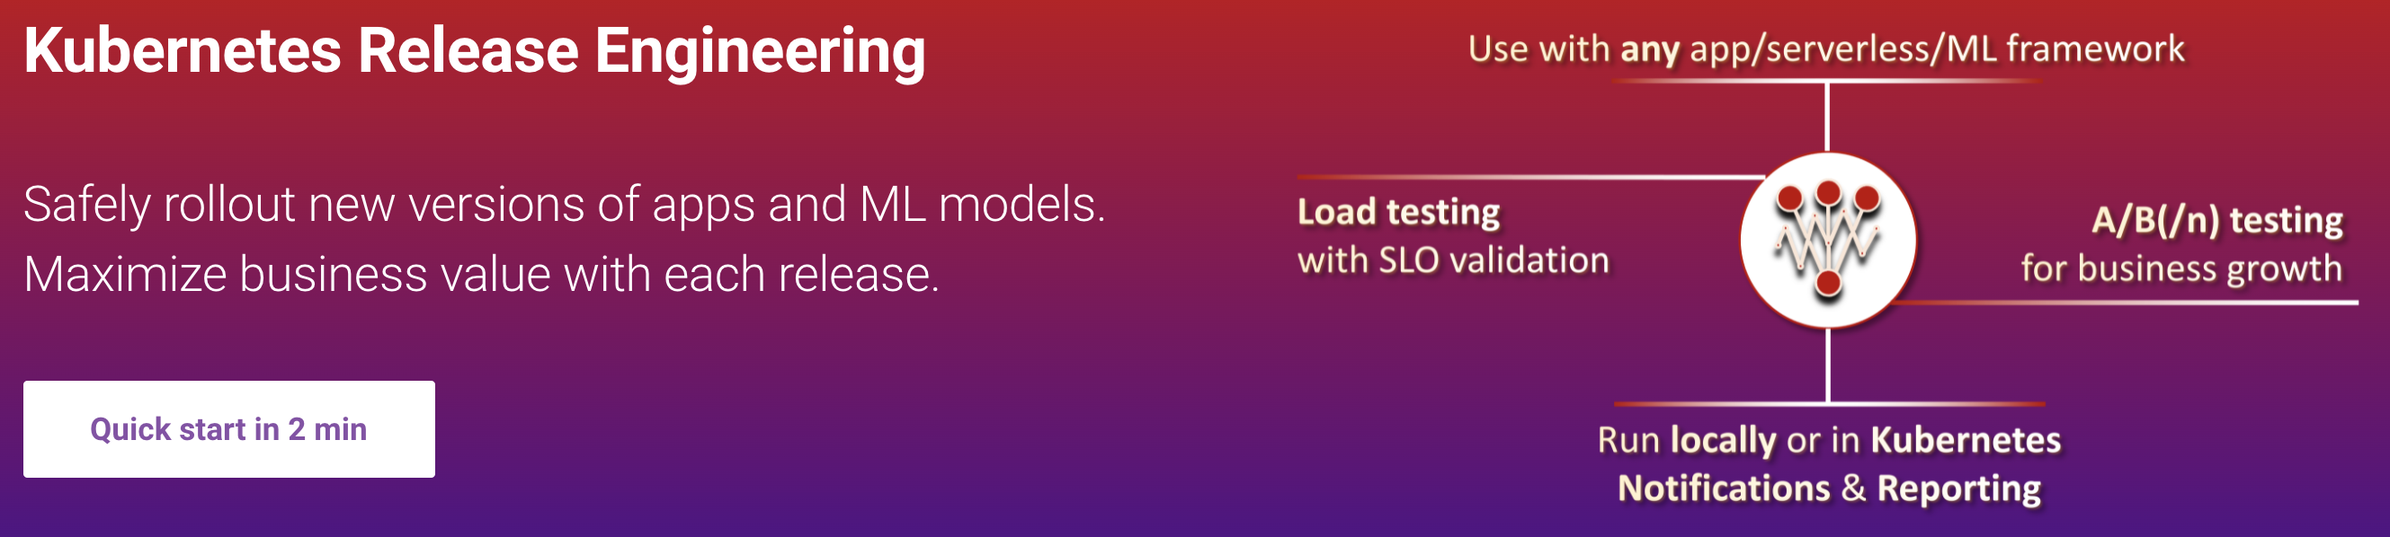
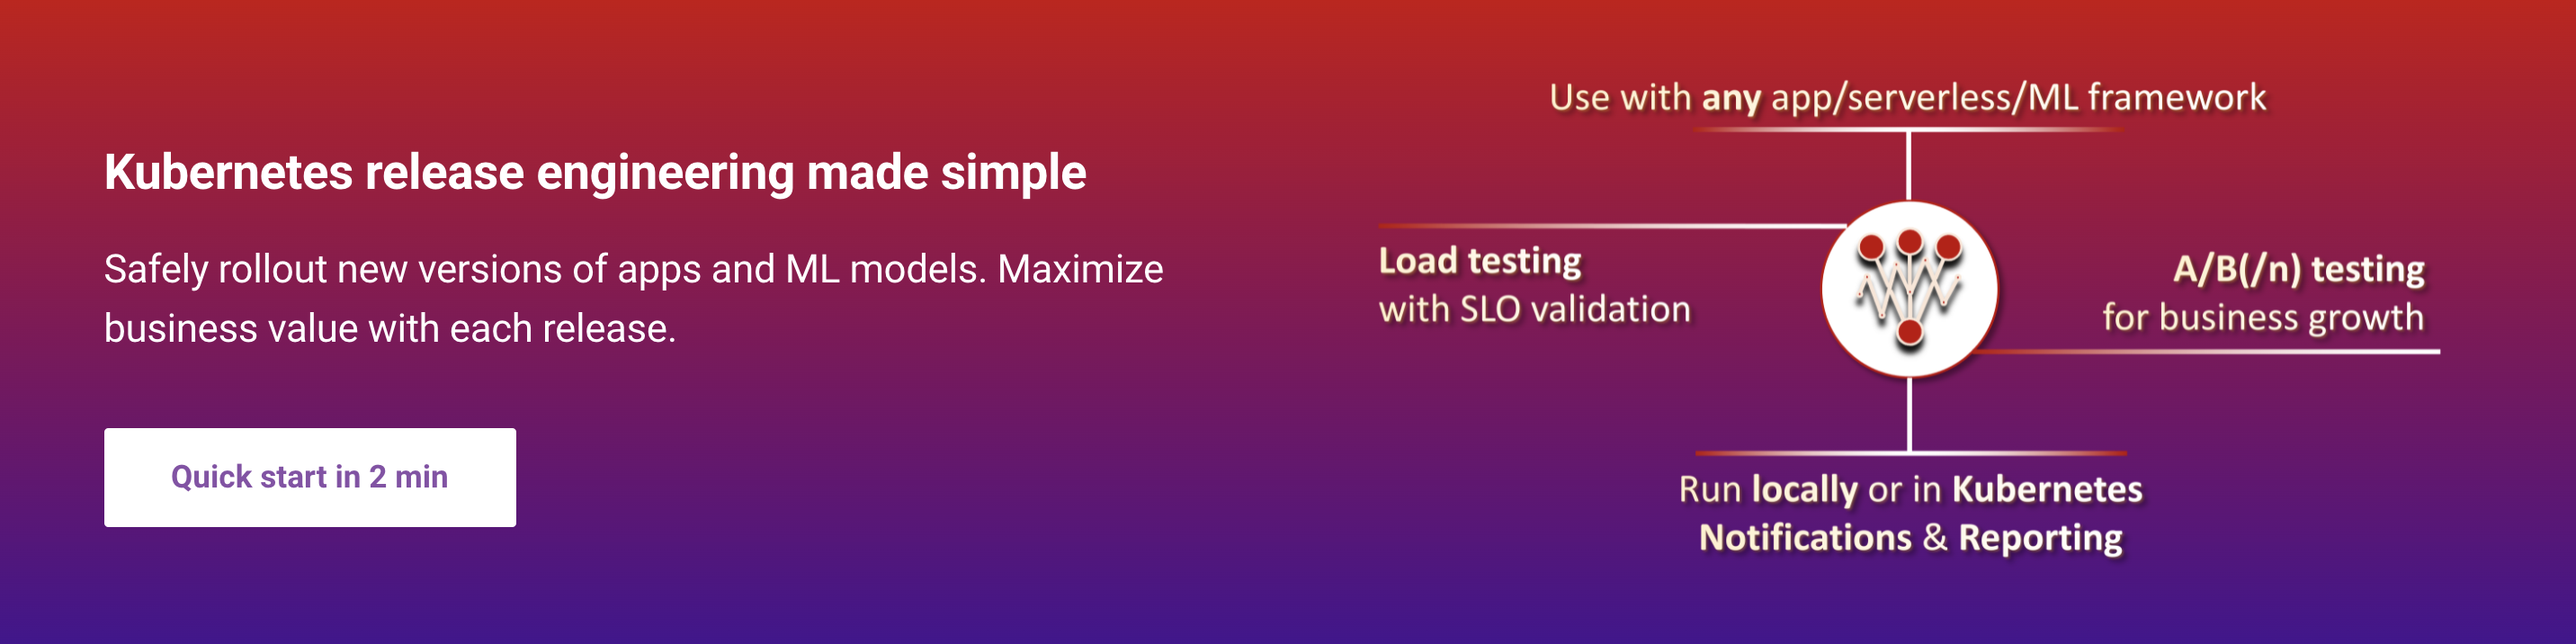
fixing images and blurb

diff --git a/mkdocs/overrides/home.html b/mkdocs/overrides/home.html
@@ -42,10 +42,10 @@
     <div class="mdx-hero">
       <!-- Hero content -->
       <div class="mdx-hero__content">
-        <h1><strong>Kubernetes Release Engineering</strong></h1>
-        <h2>
+        <h2><strong>Kubernetes release engineering made simple</strong></h2>
+        <h3>
           Safely rollout new versions of apps and ML models. Maximize business value with each release.
-        </h2> 
+        </h3> 
 
         <a href="{{ base_url }}/getting-started/your-first-experiment" title="Quick start"
           class="md-button md-button--primary">
@@ -63,16 +63,16 @@
 
 <section class="tx-container">
   <div class="md-grid md-typeset text-center pad-margin">
-      <h1>
-        <span class="twemoji">
-          {% include ".icons/material/github.svg" %}
+      <h2>
+        Built with
+        <span class="twemoji heart">
+          {% include ".icons/material/heart.svg" %} 
         </span>
-        Open Source
-      </h1>
+        for DevOps, MLOps, SRE, and data science teams.
+      </h2>
 
       <h3>
-        Available under the <a
-          href="https://www.apache.org/licenses/LICENSE-2.0">Apache 2 License</a>
+        100% open source, community driven, and Apache v2 licensed.
       </h3>
 
       <a href="https://github.com/iter8-tools/iter8" title="star"
@@ -80,19 +80,20 @@
         <span class="twemoji">
           {% include ".icons/material/star.svg" %}
         </span>
-        Star Iter8 on
+        Star Iter8 on GitHub
         <span class="twemoji">
           {% include ".icons/material/github.svg" %}
         </span>
       </a>
       
-      <p>Using Iter8? Please list yourself 
+      <p>Using Iter8? Please list yourself
         <a href="https://github.com/iter8-tools/iter8/blob/master/ADOPTERS.md">here.</a>
       </p>
     </div>
 </section>
 
 <section class="fx-container">
+
   <div class="md-grid md-typeset">
     <!-- Main site box descriptions -->
     <div class="top-hr">
@@ -102,7 +103,7 @@
           <span class="twemoji">
             {% include ".icons/material/atom.svg" %}
           </span>
-          Load testing/SLOs
+          Load testing with SLOs
         </h2>
         <p>Iter8 experiments can generate requests for <strong>HTTP</strong> and <strong>gRPC</strong> services, collect <strong>built-in</strong> latency and error-related metrics, and validate <strong>SLOs</strong>.</p>
       </div>
@@ -135,26 +136,6 @@
           Awesome integrations
         </h2>
         <p>Use with any <strong>app, serverless, or ML</strong> framework like <strong>Kubernetes deployments, statefulSets</strong>, <strong>Knative</strong> serverless, and <strong>KServe/Seldon ML</strong> deployments.</p>
-      </div>
-
-      <div class="feature-item">
-        <h2>
-          <span class="twemoji">
-            {% include ".icons/material/webhook.svg" %}
-          </span>
-          Notifications
-        </h2>
-        <p>Iter8 experiments can automatically trigger <strong>GitHub Action workflows</strong>, notify <strong>Slack</strong>, <strong>webhook and cloudevent receivers</strong>.</p>
-      </div>
-
-      <div class="feature-item">
-        <h2>
-          <span class="twemoji">
-            {% include ".icons/material/chart-bar.svg" %}
-          </span>
-          Reporting
-        </h2>
-        <p>Iter8 can report results of the experiment in <strong>HTML format with D3 visualizations</strong>, or in <strong>plain text format</strong>.</p>
       </div>
 
     </div>

diff --git a/mkdocs/docs/stylesheets/main.css b/mkdocs/docs/stylesheets/main.css
@@ -64,6 +64,19 @@
   border-color: var(--md-primary-bg-color);
 }
 
+@keyframes heart {
+  0%, 40%, 80%, 100% {
+    transform: scale(1);
+  }
+  20%, 60% {
+    transform: scale(1.15);
+  }
+}
+.heart {
+  animation: heart 1000ms infinite;
+  color: #98002e;
+}
+
 .ix-container {
   padding-top: 1rem;
   background: whitesmoke;
@@ -142,7 +155,7 @@
 .feature-item h2 {
   color: #333;
   font-weight: 300;
-  font-size: 25px;
+  font-size: 28px;
   white-space: nowrap;
   overflow: hidden;
   text-overflow: ellipsis;
@@ -153,7 +166,7 @@
 }
 
 .feature-item p {
-  font-size: 16px;
+  font-size: 18px;
   line-height: 1.8em;
   text-rendering: optimizeLegibility;
   -webkit-font-smoothing: antialiased;
@@ -171,19 +184,9 @@
     width: 100%;
   }
 }
-@media screen and (min-width: 45em) {
-  .feature-item {
-    width: 50%;
-  }
-}
-@media screen and (min-width: 60em) {
-  .feature-item {
-    width: 33%;
-  }
-}
 @media screen and (min-width: 76.25em) {
   .feature-item {
-    width: 33%;
+    width: 50%;
   }
 }
 .feature-item:hover {

diff --git a/src/main/layout/_cards.scss b/src/main/layout/_cards.scss
@@ -20,7 +20,7 @@
 .feature-item h2 {
   color: #333;
   font-weight: 300;
-  font-size: 25px;
+  font-size: 28px;
   white-space: nowrap;
   overflow: hidden;
   text-overflow: ellipsis;
@@ -31,7 +31,7 @@
 }
 
 .feature-item p {
-  font-size: 16px;
+  font-size: 18px;
   line-height: 1.8em;
   text-rendering: optimizeLegibility;
   -webkit-font-smoothing: antialiased;
@@ -51,21 +51,10 @@
   }
 }
 
-@include break-from-device(tablet portrait) {
-  .feature-item {
-    width: 50%;        
-  }
-}
-
-@include break-from-device(tablet landscape) {
-  .feature-item {
-    width: 33%;   
-  }
-}
 
 @include break-from-device(screen small) {
   .feature-item {
-    width: 33%;   
+    width: 50%;   
   }
 }
 

diff --git a/src/main/layout/_hero.scss b/src/main/layout/_hero.scss
@@ -101,6 +101,21 @@
   }
 }
 
+// icon
+@keyframes heart {
+  0%, 40%, 80%, 100% {
+    transform: scale(1);
+  }
+  20%, 60% {
+    transform: scale(1.15);
+  }
+}
+.heart {
+  animation: heart 1000ms infinite;
+  color: rgb(152,0,46)
+}
+
+
 
 // Landing page container
 .ix-container {

diff --git a/basecli/root.go b/basecli/root.go
@@ -16,7 +16,7 @@ Environment variables:
 // RootCmd represents the base command when called without any subcommands
 var RootCmd = &cobra.Command{
 	Use:   "iter8",
-	Short: "Kubernetes release engineering",
+	Short: "Kubernetes release engineering made simple",
 	Long:  globalUsage,
 }
 

diff --git a/README.md b/README.md
@@ -11,7 +11,7 @@
 [![Slack channel](https://img.shields.io/badge/Slack-Join-purple)](https://join.slack.com/t/iter8-tools/shared_invite/zt-awl2se8i-L0pZCpuHntpPejxzLicbmw)
 [![Community meetups](https://img.shields.io/badge/meet-Iter8%20community%20meetups-brightgreen)](https://iter8.tools/0.7/getting-started/help/#iter8-community-meetings)
 
-### 1. Install Iter8
+## 1. Install Iter8
 ```shell
 brew tap iter8-tools/iter8
 brew install iter8

diff --git a/mkdocs/docs/user-guide/commands/iter8_k.md b/mkdocs/docs/user-guide/commands/iter8_k.md
@@ -46,7 +46,7 @@ and run it in Kubernetes, do:
 
 ### SEE ALSO
 
-* [iter8](iter8.md)	 - Kubernetes release engineering
+* [iter8](iter8.md)	 - Kubernetes release engineering made simple
 * [iter8 k assert](iter8_k_assert.md)	 - Assert if experiment result satisfies the specified conditions
 * [iter8 k delete](iter8_k_delete.md)	 - Delete an experiment
 * [iter8 k get](iter8_k_get.md)	 - Get the list of experiments running in Kubernetes

diff --git a/mkdocs/docs/user-guide/commands/iter8_gen.md b/mkdocs/docs/user-guide/commands/iter8_gen.md
@@ -26,7 +26,7 @@ Render templates with values
 
 ### SEE ALSO
 
-* [iter8](iter8.md)	 - Kubernetes release engineering
+* [iter8](iter8.md)	 - Kubernetes release engineering made simple
 * [iter8 gen k8s](iter8_gen_k8s.md)	 - Generate manifest for running experiment in Kubernetes
 
 ###### Auto generated by spf13/cobra on 16-Jan-2022

diff --git a/mkdocs/docs/user-guide/commands/iter8_assert.md b/mkdocs/docs/user-guide/commands/iter8_assert.md
@@ -53,6 +53,6 @@ iter8 assert -c completed,nofailures,slosby=0 -t 5s
 
 ### SEE ALSO
 
-* [iter8](iter8.md)	 - Kubernetes release engineering
+* [iter8](iter8.md)	 - Kubernetes release engineering made simple
 
 ###### Auto generated by spf13/cobra on 16-Jan-2022

diff --git a/mkdocs/docs/user-guide/commands/iter8_hub.md b/mkdocs/docs/user-guide/commands/iter8_hub.md
@@ -62,6 +62,6 @@ iter8 hub -e tensorflow
 
 ### SEE ALSO
 
-* [iter8](iter8.md)	 - Kubernetes release engineering
+* [iter8](iter8.md)	 - Kubernetes release engineering made simple
 
 ###### Auto generated by spf13/cobra on 16-Jan-2022

diff --git a/mkdocs/docs/user-guide/commands/iter8_version.md b/mkdocs/docs/user-guide/commands/iter8_version.md
@@ -46,6 +46,6 @@ iter8 version [flags]
 
 ### SEE ALSO
 
-* [iter8](iter8.md)	 - Kubernetes release engineering
+* [iter8](iter8.md)	 - Kubernetes release engineering made simple
 
 ###### Auto generated by spf13/cobra on 16-Jan-2022

diff --git a/mkdocs/docs/user-guide/commands/iter8_report.md b/mkdocs/docs/user-guide/commands/iter8_report.md
@@ -38,6 +38,6 @@ iter8 report [flags]
 
 ### SEE ALSO
 
-* [iter8](iter8.md)	 - Kubernetes release engineering
+* [iter8](iter8.md)	 - Kubernetes release engineering made simple
 
 ###### Auto generated by spf13/cobra on 16-Jan-2022
